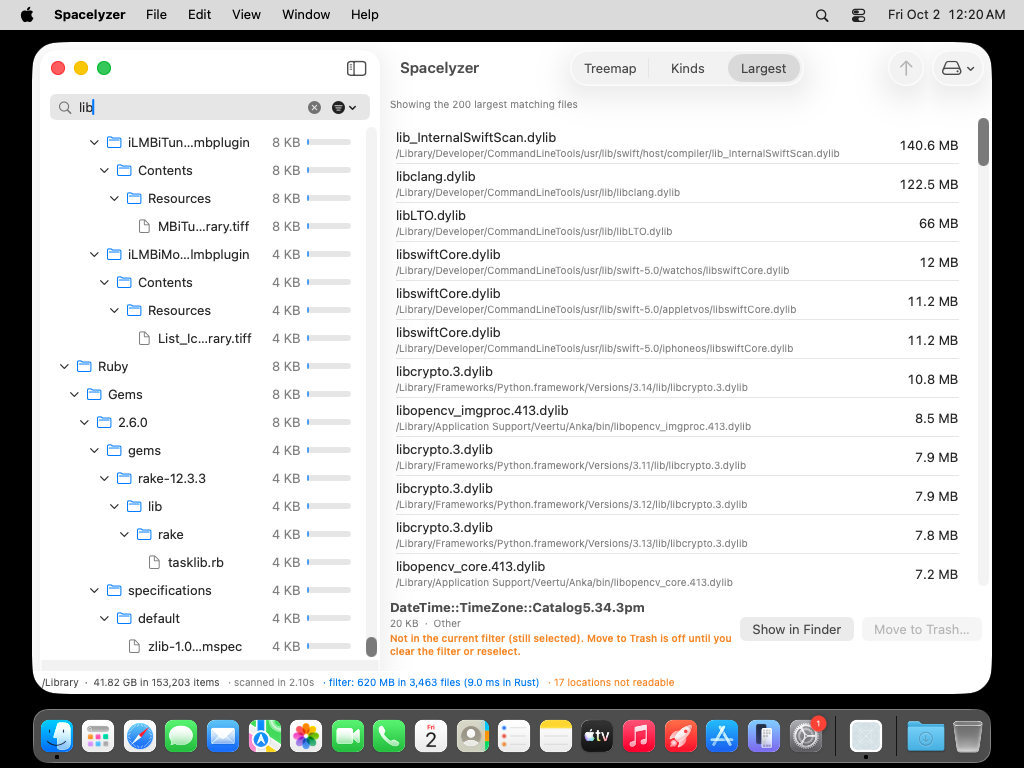
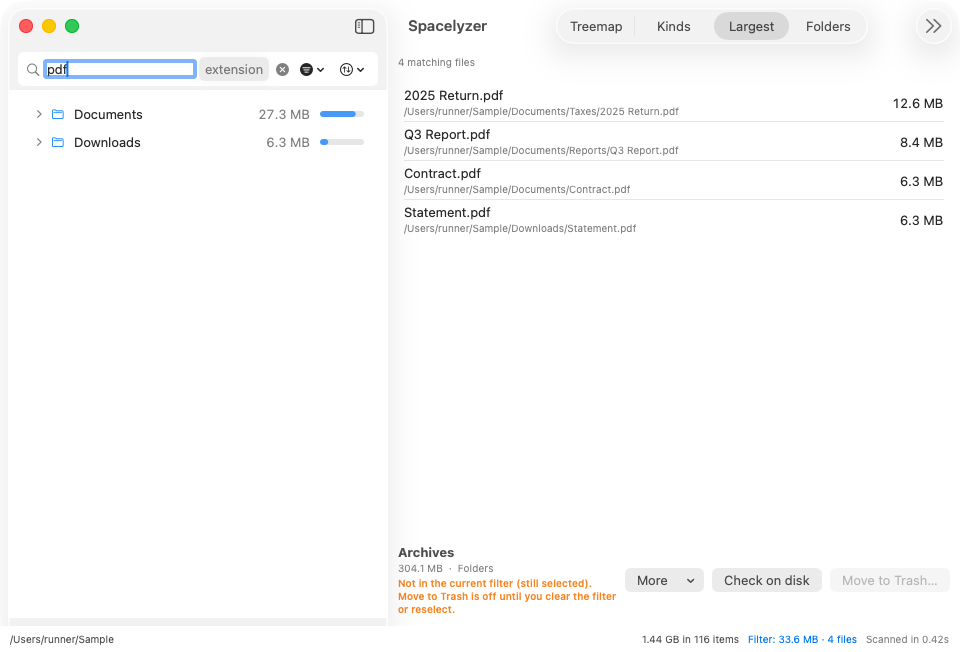
docs: refresh guide with real run-177 captures, corrected captions, and roadmap/ledger facts (#129)
README, install, quick-start and tour refreshed with 10 real run-39602481035 captures, each pixel-inspected (8 byte-identical to CI artifacts, 2 pixel-exact window crops). The DMG-window caption states the label-contrast fix merged after the capture and the updated window awaits Mac verification; the on-disk review capture stays explicitly pending with no stand-in. Ledger and roadmap state Rust coverage as 169 exercised passes plus 5 documented platform skips (raw cargo count 174, which counts the skips as passed).

diff --git a/docs/ROADMAP.md b/docs/ROADMAP.md
@@ -12,7 +12,7 @@ Safe big-file cleanup comes first, ahead of hidden macOS space/snapshot/accounti
 
 ## Near-term steps, in dependency order
 Each step names its gate. None is a release-readiness claim, and none authorizes a Mac CI run, a release or spend; the Mac verification gate is owned by the project owner.
-1. **Mac verification of the current stack (blocks everything Swift).** Evidence today: one hosted macOS compile of the older `f5c50283` tree built the universal Rust engine and Swift with 0 errors and 20 warnings; the Rust integration tests stopped at the first failing binary (APFS refused a non-UTF-8 fixture name), so most Rust test binaries and the whole failpoints run have no macOS result. Later commits (Swift warning fixes, test-skip handling) are uncompiled on Mac. Needed: a permitted Mac run on the latest tree that initializes a fresh absolute `SPZ_SKIP_MANIFEST`, reports skipped names and subtracts them from the pass count. Still unknown there: `scan_oracle` default (bulk) backend vs the `lstat` oracle on APFS, case-insensitive volumes, 0444 permission semantics.
+1. **Mac verification of the current stack (blocks everything Swift).** Run 39602481035 (2026-10-21, one approved consolidated run) compiled the full app on Mac, passed 178/178 UI and 159/159 ordering checks once - including all seven previously failing checks - and 169 exercised Rust test passes with 5 documented platform skips (raw cargo count 174; cargo counts the skips as passed). Passed once is not proven stable. Still unknown on Mac: the bulk backend-vs-portable comparison (its fixture died on a BSD `head -c 0` before any probe; repaired, never evaluated), the on-disk review docs capture (flow repaired, never captured), the DMG window with the merged label-contrast plates, and actual VoiceOver speech (in-process AX evidence only; no supported automated speech capture). Older evidence: one hosted macOS compile of the `f5c50283` tree built the universal Rust engine and Swift with 0 errors and 20 warnings; most Rust test binaries and the failpoints run still have no macOS result.
 2. **Mac verification of the built Swift consumers.** The engine's previously headless capabilities now have Swift UI on the development tree: the Not scanned list, the exclusions editor with unobserved-exclusion reporting, the volume header, the duplicates review, and item inspect. Each needs real-UI state capture reviewed by pixels on a Mac, not source review.
 3. **Mac verification of the cleanup workflow (E4).** Inspect, preview, full path, Trash, undo, batch removal and removal history are built per the owner's October 3 priority. Gates: off-main Trash execution with current-identity revalidation, protected paths, failure and undo on real hardware.
 4. **Accessibility and input evidence (E2).** Real VoiceOver and real-system input, not injected preferences.
@@ -34,7 +34,7 @@ Each step names its gate. None is a release-readiness claim, and none authorizes
 | E4 Inspect and remove | Item details and Quick Look, Trash with undo, batch removal and removal history | Built on the development tree; Mac verification pending |
 | E5 Scan control | Persistent exclusions, reviewable unreadable list, Full Disk Access detection | Built on the development tree: Not scanned list, exclusions editor with unobserved-exclusion reporting (not proof of absence), Full Disk Access detection with an honest unknown state. Mac verification pending |
 | E6 Duplicates | Rust duplicate finding and review/removal UI | Built on the development tree: duplicate groups review with per-group removal through the E4 gates. Allocated bytes, not reclaimable space; hard-linked copies called out. Mac verification pending |
-| E7 Polish and endurance | App icon, install experience, decimal/binary units, cold first-click investigation, long-session soak/leaks | Icon and install graphic in design review with the owner; stability is cross-cutting |
+| E7 Polish and endurance | App icon, install experience, decimal/binary units, cold first-click investigation, long-session soak/leaks | Icon and DMG install window captured on Mac (run 39602481035) and pixel-reviewed; label-contrast plates merged, rendered-window verification pending; docs refreshed with 10 real captures (review capture pending). Stability is cross-cutting |
 
 ## Release gates across epics
 - Broader Trash failure/undo and real-hardware behavior beyond the narrow disposable CI remove/undo pass. Current MainActor Trash/undo filesystem work and Rust subtree mutation must gain safe off-main execution with current identity revalidation and no concurrent tree mutation/read before cleanup ships.

diff --git a/AGENTS.md b/AGENTS.md
@@ -206,3 +206,5 @@ Run105 at0baba9a:65PASS2FAIL/67,38images. Actual alternatekeywindow/productresto
 Run106 at8694d903:66PASS2FAIL/68,39images. Native keyDown runs; raw/valid namedfield boundary remains before/after reconnect, but selectNextKeyView changes chain/destination to wrapper during call. Instrumented trace, not exact cause proof.39simultaneous warnings/fullvariant fit at960x600; compact unexercised and warnings simulated, not permission/cancel accounting.37/38 semantics retained. Next product changes to explicit active/key/same-window visible/enabled native boundary makeFirstResponder, source/currenteditor validation, refusal/restore outcomes; ordinary other routes native. Old keygraph contract not repaired, functional injectedTab/ShiftTab still required. Planned80checks39states adds direct injectedbacktab and11isolated helper/defensive API simulations; real modifiedshortcut/fallback execution unproven. Missingtable emits canonical new failures; per-case source/target setup checked, disposable windows restored with defer. No readiness/fullE2/IME/OSAX/forcedraceclaim. README remains concise; append checkpoint history here, not to front door.
 
 Run107 ate2cd228:67PASS13FAIL/80,39images. Narrow forward actualTab reaches namedfield/editor and preserves selection, independently accepted; reverse fixture posted Tab+shift but delegate got insertTab, so insertBacktab route unexercised.11helper cases all fail with initial setup unlogged; no guard acceptance or blanket11productbug claim. Correct posted backtab to documented NSBackTabCharacter0x19, ignoringmodifiers plainTab; log actualevent/delegate identity. Log initial actualmakeFirstResponder/sourceaccepts/keyactive/visibility and percase setup with bounded3skeywait, keep blocked rows FAIL.80/39 unchanged, product routing unchanged, no reverse/guard/runtime/readiness acceptance. Documentation restructuring is separately owned; do not edit README/docs here.
+
+Run39602481035 at ce7b4ef7 (the one approved consolidated Mac run): 178UI/159ordering all PASS once, including all seven previously failing checks; rust169exercisedpasses+5documentedplatformskips(rawcargo174countstheskipsaspassed); engine-linux green; DMG built. Red final gate came from three harness defects, not product: stale 176 count pin; bulk fixture died at BSD `head -c 0` before any probe (bulk accuracy has never evaluated on Mac); docs review capture pressed a visible title no AX element exposes (10/11 captures landed). The combined mounted-selection candidate passed once (branch=select, selIdx=[1]->[0], rows=5/5, coordinator tid==checkTID); no A/B, so no load-bearing attribution between the selectionRevision remedy and the selectedSet fix. Footer/batch7 passes are in-process AX, not VoiceOver speech. PR126 merged efb9238b: pin 178 with real-artifact regression (run-176 fails, run-177 passes), BSD-safe fixture with actual-shell BSD-shim regression, source-faithful docs review flow (Mac verification open), factual batch7 sheet line. PR127 merged 5bf7cf25: DMG icon-label plates placed from the real capture's measured label geometry; rendered-window verification open. PR128 merged e40d07ad: the evidence gate names the triggering step outcomes instead of a bare exit 1. Docs README/install/quick-start/tour refreshed with 10 real run-177 captures, each pixel-inspected before use; the on-disk review capture is explicitly pending (no stand-in). Open Mac gates: bulk accuracy green, review capture, DMG plates rendered, VoiceOver speech (no supported automated speech capture; manual Mac work). No release, no readiness claim.

diff --git a/README.md b/README.md
@@ -6,9 +6,14 @@ See what is using your disk. A native macOS disk-space analyzer with a SwiftUI i
 
 ## Explore before you remove
 
+![Kinds view grouping files by type with counts and allocated sizes](docs/images/readme-kinds.png)
+
 - Follow folders in the outline or compare their size in the treemap.
 - Switch to Kinds for a file-type breakdown, or Largest for the 200 largest matching files.
 - Combine name, extension, kind, size and modified-date filters across every view.
+
+<!-- CAPTURE PENDING: the on-disk review capture is the one missing docs capture from run 39602481035 (10 of 11 landed; the capture flow was repaired in PR126 but has not produced a capture on Mac yet). Add docs/images/readme-review.png from a future verified CI capture; no stand-in. -->
+
 - Check a scanned item on disk before deciding: preview, full path, size, then Move to Trash with Undo.
 - Move several reviewed items at once, and put any of them back from the removal history.
 - Review duplicate groups and move extra copies to the Trash.
@@ -17,11 +22,15 @@ See what is using your disk. A native macOS disk-space analyzer with a SwiftUI i
 
 Sizes describe allocated disk space, with hard links counted once. Scans stay on your Mac; the app has no networking code.
 
-## Try the development build
+## Install
 
 Requires macOS 14 or later. [Development DMGs](https://github.com/k-electron-bots/spacelyzer-native/releases) are self-signed, not notarized. This is **not a release-ready app**. Keyboard focus verification is under repair; real-Mac, VoiceOver and actual IME testing remain open.
 
-[Install and permissions](docs/guide/install.md) explains first launch and Full Disk Access without weakening macOS security. [Take the visual tour](docs/guide/tour.md) to see the views, filters and safe-removal workflow.
+1. Download the DMG and open it.
+2. Drag Spacelyzer onto Applications.
+3. Open it once, then approve it in **System Settings > Privacy & Security > Open Anyway**.
+
+[Install and permissions](docs/guide/install.md) walks through each step with pictures, then [take the visual tour](docs/guide/tour.md).
 
 The images show a shared CI Mac, not a personal Mac. They illustrate the interface, not exhaustive validation or a speed comparison.
 
@@ -29,7 +38,7 @@ The images show a shared CI Mac, not a personal Mac. They illustrate the interfa
 
 | You want to... | Start here |
 |---|---|
-| Learn the app | [Visual tour](docs/guide/tour.md) · [Space, filters and Trash](docs/guide/space-and-safety.md) |
+| Learn the app | [Quick start](docs/guide/quick-start.md) · [Visual tour](docs/guide/tour.md) · [Space, filters and Trash](docs/guide/space-and-safety.md) |
 | Build or change it | [Development](docs/development/README.md) · [Architecture](docs/development/architecture.md) · [Engine CLI](docs/development/cli.md) |
 | Check what is actually verified | [Verification status](docs/verification/README.md) |
 | Understand priorities | [Roadmap](docs/ROADMAP.md) |

diff --git a/docs/guide/install.md b/docs/guide/install.md
@@ -3,16 +3,29 @@
 ## Requirements
 macOS 14 or later. Builds are in development; see [verification status](../verification/README.md) before relying on them for important cleanup.
 
-## First launch
+## Install from the DMG
 1. Download a development DMG from [GitHub releases](https://github.com/k-electron-bots/spacelyzer-native/releases).
-2. Open the app. The build is self-signed, not notarized, so macOS may block launch.
-3. Use **System Settings > Privacy & Security > Open Anyway** for this app. macOS may ask for your login password.
+2. Open the DMG. You get one window: the app on the left, your Applications folder on the right.
+3. Drag Spacelyzer onto Applications.
+
+![The install window: drag Spacelyzer onto Applications](../images/install-dmg-window.png)
+
+Captured October 2026 on a CI Mac. A label-contrast background fix for this window merged after the capture; the updated Finder window still awaits Mac verification.
+
+## First launch
+The build is self-signed, not notarized, so macOS blocks the first open. On macOS 14 and later (steps verified against the macOS 14+ Gatekeeper flow):
+
+1. Try to open the app once. macOS shows a warning and does not open it.
+2. Go to **System Settings > Privacy & Security**.
+3. Under Security, choose **Open Anyway** for Spacelyzer. macOS may ask for your login password.
 
 Do not disable Gatekeeper or clear quarantine flags. Diagnostic builds are not a substitute for a release-readiness gate.
 
 ## Protected folders
 Full Disk Access in **System Settings > Privacy & Security** may be needed to read protected locations; it does not guarantee complete coverage of every protected path. Without it, the app reports unreadable locations. A partial scan is not a complete view of your disk.
 
+![The in-app banner shown when Full Disk Access is missing](../images/install-fda-banner.png)
+
 No networking code is present in the app. Scanning and filtering run locally.
 
-Continue with the [visual tour](tour.md).
+Continue with the [quick start](quick-start.md).

diff --git a/docs/guide/quick-start.md b/docs/guide/quick-start.md
@@ -1,0 +1,25 @@
+# Quick start
+
+Four steps from download to a safe first cleanup. Images come from a shared CI Mac; names, counts and times are examples, not expected values for your Mac.
+
+## 1. Open the app
+After [installing](install.md), open Spacelyzer from Applications. The first window is the welcome screen.
+
+![Welcome screen on first launch](../images/quickstart-welcome.png)
+
+## 2. Scan a location
+Start a scan of your disk or a folder. The app reads everything it is allowed to read and shows progress as it goes. Locations macOS protects appear in the Not scanned list with their reason; [Full Disk Access](install.md#protected-folders) widens coverage but never guarantees every protected path.
+
+![Scan in progress](../images/quickstart-scanning.png)
+
+## 3. Explore the result
+Follow folders in the outline, compare areas in the treemap, or use Kinds and Largest for focused lists. Filters combine across every view.
+
+![Outline and treemap after a scan](../images/quickstart-overview.png)
+
+## 4. Review, then remove
+Select an item and check it on disk: preview, full path and size, refreshed from the filesystem. If it is what you expect, Move to Trash. The removal is confirmed with the full path, and Undo is available from the removal history. Batch removal moves several reviewed items in one pass with one undo.
+
+<!-- CAPTURE PENDING: the on-disk review capture is the one missing docs capture from run 39602481035 (10 of 11 landed; the capture flow was repaired in PR126 but has not produced a capture on Mac yet). Add docs/images/quickstart-review.png from a future verified CI capture; no stand-in. -->
+
+Protected paths, selections outside the current filter and selections awaiting a filter result are refused. Read [space, filters and safe removal](space-and-safety.md) before deleting anything unfamiliar, and the [visual tour](tour.md) for a full walk of the views.

diff --git a/docs/guide/tour.md b/docs/guide/tour.md
@@ -1,6 +1,6 @@
 # Visual tour
 
-These images were captured at 1024x768 on a shared GitHub CI Mac. Their file names, counts and times are example scan results, not expected values for your Mac. They show an earlier interface checkpoint; acceptance of newer behavior is tracked separately in [verification](../verification/README.md).
+These images were captured on a shared GitHub CI Mac (CI run 39602481035, October 2026) and show the current interface. Their file names, counts and times are example scan results, not expected values for your Mac. Acceptance of behavior is tracked separately in [verification](../verification/README.md).
 
 ## Follow folders or compare areas
 ![Outline beside the treemap](../images/overview.png)
@@ -15,9 +15,9 @@ The treemap uses area for allocated size. Choose folder, kind or depth coloring.
 Kinds groups matching files by type. This helps distinguish, for example, code from archives without leaving the selected scan.
 
 ## Find large files within a filter
-![Largest view filtered by lib, with hidden selection warning](../images/filtered-largest.png)
+![Largest view filtered by pdf, with hidden selection warning](../images/filtered-largest.png)
 
-Largest lists the 200 largest matching files and their paths. The header identifies the cap. A name filter of `lib` changes every view. The orange selection warning means the selected item is outside the filter; Move to Trash stays unavailable until you clear the filter or select a matching item.
+Largest lists the 200 largest matching files and their paths. The header identifies the cap. A name filter of `pdf` changes every view. The orange selection warning means the selected item is outside the filter; Move to Trash stays unavailable until you clear the filter or select a matching item.
 
 ## Understand an empty view
 ![No matches in the outline and treemap](../images/no-matches.png)

diff --git a/docs/README.md b/docs/README.md
@@ -4,6 +4,7 @@ Spacelyzer has two audiences: people exploring disk space and people building or
 
 ## Use the app
 - [Install and permissions](guide/install.md)
+- [Quick start](guide/quick-start.md)
 - [Visual tour](guide/tour.md)
 - [Space, filters and safe removal](guide/space-and-safety.md)
 - [FAQ](guide/faq.md)
